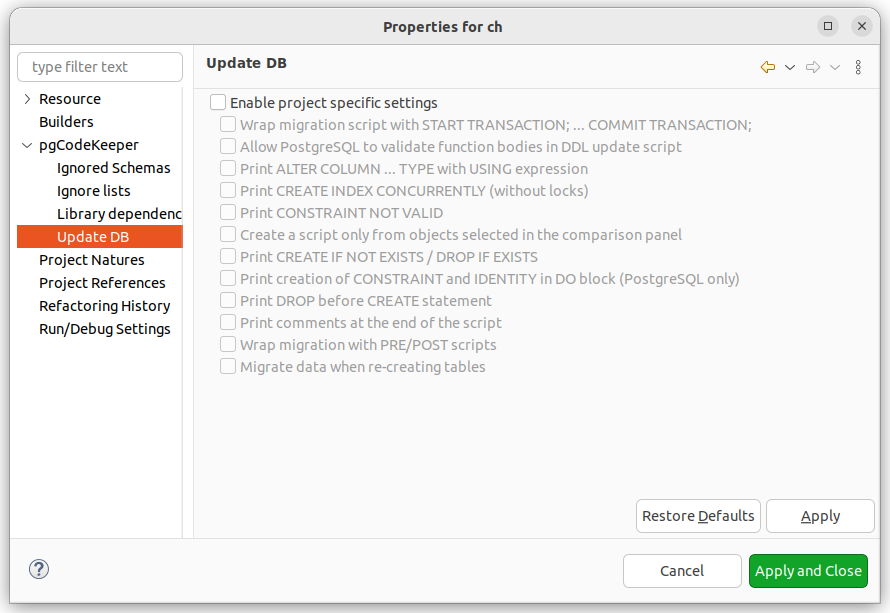
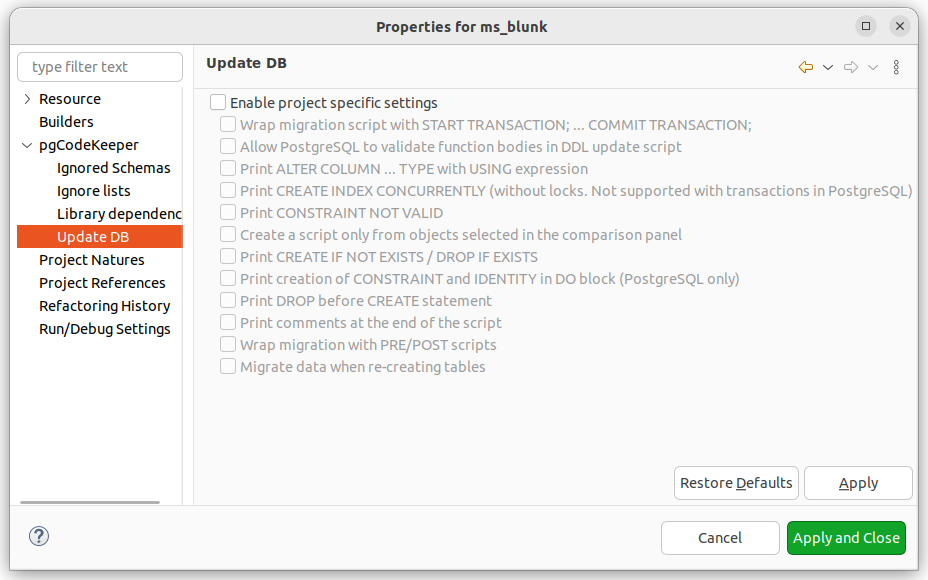
PPGC-389 updated cli part (#82)

diff --git a/docs/conf.py b/docs/conf.py
@@ -51,9 +51,9 @@ copyright = '2023, pgCodeKeeper'
 # built documents.
 #
 # The short X.Y version.
-version = '9.10'
+version = '9.13'
 # The full version, including alpha/beta/rc tags.
-release = '9.10.0'
+release = '9.13.0'
 
 # The language for content autogenerated by Sphinx. Refer to documentation
 # for a list of supported languages.

diff --git a/docs/cli_version.rst b/docs/cli_version.rst
@@ -32,7 +32,7 @@ CLI версия
 diff
 """"
 
-Режим по-умолчанию. Сравнивает два источника данных и формирует скрипт миграции. В качестве источника данных может использоваться дамп, проект pgCodeKeeper или база данных.
+Режим по-умолчанию, команда для вызова **--mode DIFF**. Сравнивает два источника данных и формирует скрипт миграции. В качестве источника данных может использоваться дамп, проект pgCodeKeeper или база данных.
 
 Пример команды для сравнения двух баз данных PostgreSQL и сохранения скрипта миграции в файл.
 ::
@@ -54,6 +54,7 @@ diff
 ::
 
  ./pgcodekeeper-cli.sh                                                \
+ --mode DIFF                                                          \
  --db-type MS                                                         \
  /path/to/project/                                                    \
  'jdbc:sqlserver://127.0.0.1;databaseName={master};integratedSecurity=true'
@@ -63,6 +64,7 @@ diff
 ::
 
  ./pgcodekeeper-cli.sh                                                \
+ --mode DIFF                                                          \
  --db-type CH                                                         \
  -r                                                                   \
  path/to/file/ch_dumpl.sql                                            \
@@ -87,7 +89,7 @@ diff
 parse
 """""
 
-Команда **--parse** позволяет переключить работу в режим сохранения базы данных в виде проекта. Команды, доступные в этом режиме:
+Команда **--mode PARSE** позволяет переключить работу в режим сохранения базы данных в виде проекта. Команды, доступные в этом режиме:
 
 - **--update-project** - обновление существующего проекта.
 
@@ -96,7 +98,7 @@ parse
 
   ./pgcodekeeper-cli.sh                                         /
   --db-type PG                                                  /
-  --parse                                                       /
+  --mode PARSE                                                  /
   -o /path/to/empty_rep/                                        /
   'jdbc:postgresql://127.0.0.0:1/test?user=test&password=test'
 
@@ -110,7 +112,7 @@ parse
 
   ./pgcodekeeper-cli.sh                                           /
   --db-type PG                                                    /
-  --parse                                                         /
+  --mode PARSE                                                    /
   --update-project                                                /
   -o /path/to/existing_rep/                                       /
   'jdbc:postgresql://0.0.0.0:55001/test?user=test&password=test'
@@ -120,7 +122,7 @@ parse
 graph
 """""
 
-Команда **--graph** позволяет переключить работу в режим поиска зависимостей объекта. Команды, доступные в этом режиме:
+Команда **--mode GRAPH** позволяет переключить работу в режим поиска зависимостей объекта. Команды, доступные в этом режиме:
 
 - **--graph-name <object_name>**  - имя искомого объекта, поддерживает регулярные выражения, при отсутствии параметра, будут показаны зависимости всех объектов. Для функций сигнатура является частью имени.
 - **--graph-reverse**  - обратное направление поиска зависимостей, с данным параметром выполняется поиск объектов, от которых зависит искомый объект. Без этого параметра выполняется поиск всех объектов, которые зависят от искомого.
@@ -133,7 +135,7 @@ graph
 
  ./pgcodekeeper-cli.sh
  --db-type PG                               \
- --graph                                    \
+ --mode GRAPH                               \
  --graph-name public.t1                     \
  --graph-name public.t2                     \
  --graph-name 'public\.f1\(.*'              \
@@ -157,7 +159,7 @@ graph
 
  pgcodekeeper-cli.bat                       \
  --db-type MS                               \
- --graph                                    \
+ --mode GRAPH                               \
  --graph-name \\[dbo\\].\\[TABLE_1\\]       \
  --graph-name \\[dbo\\].\\[TABLE_2\\]       \
  --graph-name '.*TABLE_3.*'                 \
@@ -190,7 +192,7 @@ graph
 insert
 """"""
 
-Команда **--insert** позволяет переключить работу в режим сбора данных из базы источника с учетом зависимостей по FK. Команды, доступные в этом режиме:
+Команда **--mode INSERT** позволяет переключить работу в режим сбора данных из базы источника с учетом зависимостей по FK. Команды, доступные в этом режиме:
 
 - **--insert-name <table_name>** - имя таблицы, для который собираются данные.
 - **--insert-filter <filter>** - условие по которому будут собираться данные из первоначальной таблицы.
@@ -202,7 +204,7 @@ insert
 
   ./pgcodekeeper-cli.sh                                              /
   --db-type PG                                                       /
-  --insert                                                           /
+  --mode INSERT                                                      /
   --insert-name public.t1                                            /
   --insert-filter 'id = 1'                                           /
   -X                                                                 /
@@ -220,7 +222,7 @@ insert
 
   ./pgcodekeeper-cli.sh                                                        /
   --db-type MS                                                                 /
-  --insert                                                                     /
+  --mode INSERT                                                                /
   --insert-name '[dbo].[TABLE_1]'                                              /
   --insert-filter 'id = 1'                                                     /
   -X                                                                           /

diff --git a/docs/preferences.rst b/docs/preferences.rst
@@ -56,7 +56,7 @@
 - **Surround migration script with START TRANSACTION; ... COMMIT TRANSACTION; / Заключить скрипт наката в блок START TRANSACTION; ... COMMIT TRANSACTION;** – позволяет дополнять генерируемые скрипты парой start ... commit.
 - **Allow PostgreSQL to validate function bodies in DDL update script / Разрешить PostgreSQL проверять тела функций в скрипте наката** – позволяет при генерации скрипта добавлять проверку ``SET check_function_bodies = true;`` в начало скрипта.
 - **Print ALTER COLUMN ... TYPE with USING expression / Печатать ALTER COLUMN ... TYPE ... с USING expression** – позволяет добавлять в скрипт выражение, позволяющее изменить тип данных, при изменении типа столбца
-- **Print CREATE INDEX CONCURRENTLY (without locks) / Печатать CREATE INDEX CONCURRENTLY (без блокировок)** – позволяет в скриптах создавать индексы в режиме CONCURRENTLY.
+- **Print CREATE INDEX CONCURRENTLY (without locks. Not supported with transactions in PostgreSQL) / Печатать CREATE INDEX CONCURRENTLY (без блокировок. Не поддерживается вместе с транзакциями в PostgreSQL)** – позволяет в скриптах создавать индексы в режиме CONCURRENTLY.
 - **Print CONSTRAINT NOT VALID / Печатать CONSTRAINT NOT VALID** - позволяет добавлять в скрипт миграции конструкцию ``NOT VALID`` для констрейнтов.
 - **Print CREATE IF NOT EXISTS/DROP IF EXISTS / Печатать CREATE IF NOT EXISTS/DROP IF EXISTS** – позволяет добавить конструкцию ``IF NOT EXISTS/IF EXISTS`` в скрипте миграции в конструкции CREATE / DROP объекта.
 - **Print creation of CONSTRAINT and IDENTITY in DO block (PostgreSQL only) / Печатать создание CONSTRAINT и IDENTITY в DO блоке (только для PostgreSQL)** - позволяет обернуть создание CONSTARAINT и IDENTITY в блок DO (только для PostgreSQL)

diff --git a/docs/index.rst b/docs/index.rst
@@ -10,6 +10,13 @@
 
 Исходный код pgCodeKeeper находится в свободном доступе и доступен на `GitHub <https://github.com/pgcodekeeper/pgcodekeeper>`_.
 
+Поддерживаемые версии баз данных:
+
+- PostgreSQL 9.4+
+- MS SQL 2012+
+- ClickHouse 23+
+- Greenplum 6+
+
 .. toctree::
 
    preface
